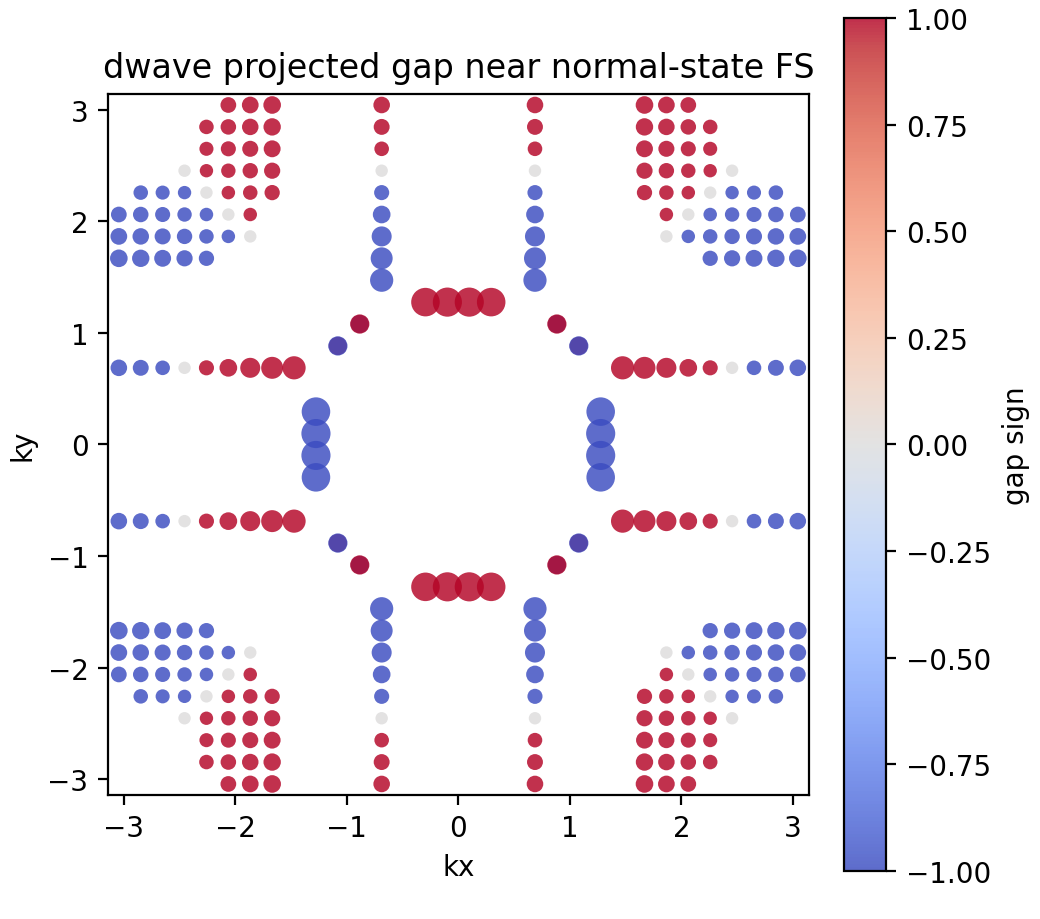
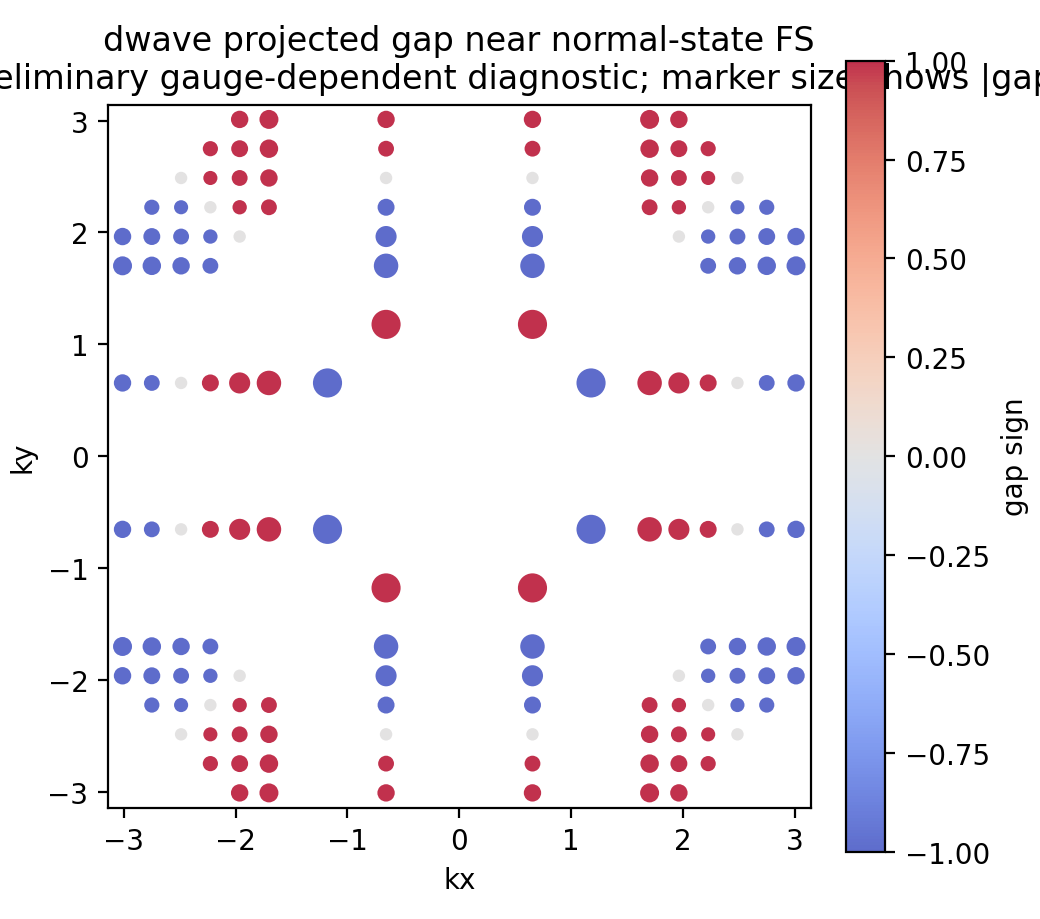
commit

diff --git a/tests/test_gap_analysis.py b/tests/test_gap_analysis.py
@@ -5,6 +5,7 @@ from lno327 import (
     PairingAmplitudes,
     band_gap_projection,
     fermi_surface_points,
+    gap_statistics_by_band,
     gap_statistics_on_fermi_surface,
 )
 
@@ -41,3 +42,34 @@ def test_dwave_form_factor_zero_has_small_projected_gap():
 def test_fermi_surface_points_rejects_nonpositive_energy_tolerance():
     with pytest.raises(ValueError, match="energy_tolerance_eV must be positive"):
         fermi_surface_points(8, 0.0)
+
+
+def test_band_resolved_summary_counts_sum_to_fermi_surface_points():
+    stats = gap_statistics_on_fermi_surface(
+        "spm",
+        PairingAmplitudes(delta0_eV=0.04),
+        nk=12,
+        energy_tolerance_eV=0.15,
+    )
+    summary = gap_statistics_by_band(stats)
+
+    assert sum(item["count"] for item in summary.values()) == stats.gap_abs.size
+
+
+def test_larger_node_tolerance_does_not_reduce_node_count():
+    small_tolerance = gap_statistics_on_fermi_surface(
+        "dwave",
+        PairingAmplitudes(delta0_eV=0.04),
+        nk=12,
+        energy_tolerance_eV=0.15,
+        node_tolerance_eV=1e-4,
+    )
+    large_tolerance = gap_statistics_on_fermi_surface(
+        "dwave",
+        PairingAmplitudes(delta0_eV=0.04),
+        nk=12,
+        energy_tolerance_eV=0.15,
+        node_tolerance_eV=1e-2,
+    )
+
+    assert large_tolerance.approximate_nodes >= small_tolerance.approximate_nodes

diff --git a/src/lno327/gap_analysis.py b/src/lno327/gap_analysis.py
@@ -35,11 +35,13 @@ class GapStatistics:
     gap_complex: np.ndarray
     gap_abs: np.ndarray
     gap_sign: np.ndarray
+    node_tolerance_eV: float
     min_abs_gap: float
     max_abs_gap: float
     mean_abs_gap: float
     sign_changes: bool
     approximate_nodes: int
+    relative_node_fraction: float
 
 
 def band_gap_projection(
@@ -134,6 +136,7 @@ def gap_statistics_on_fermi_surface(
     nonzero_signs = gap_sign[gap_sign != 0]
     sign_changes = bool(np.unique(nonzero_signs).size > 1)
     approximate_nodes = int(np.count_nonzero(gap_abs <= node_tolerance_eV))
+    relative_node_fraction = float(approximate_nodes / gap_abs.size) if gap_abs.size else float("nan")
 
     if gap_abs.size == 0:
         min_abs_gap = max_abs_gap = mean_abs_gap = float("nan")
@@ -150,9 +153,29 @@ def gap_statistics_on_fermi_surface(
         gap_complex=gap_values,
         gap_abs=gap_abs,
         gap_sign=gap_sign,
+        node_tolerance_eV=node_tolerance_eV,
         min_abs_gap=min_abs_gap,
         max_abs_gap=max_abs_gap,
         mean_abs_gap=mean_abs_gap,
         sign_changes=sign_changes,
         approximate_nodes=approximate_nodes,
+        relative_node_fraction=relative_node_fraction,
     )
+
+
+def gap_statistics_by_band(stats: GapStatistics) -> dict[int, dict[str, float | int]]:
+    """Return gap statistics grouped by normal-state band index."""
+
+    summary: dict[int, dict[str, float | int]] = {}
+    for band in np.unique(stats.band_index):
+        mask = stats.band_index == band
+        band_gaps = stats.gap_abs[mask]
+        approximate_nodes = int(np.count_nonzero(band_gaps <= stats.node_tolerance_eV))
+        summary[int(band)] = {
+            "count": int(np.count_nonzero(mask)),
+            "min_abs_gap": float(np.min(band_gaps)) if band_gaps.size else float("nan"),
+            "mean_abs_gap": float(np.mean(band_gaps)) if band_gaps.size else float("nan"),
+            "max_abs_gap": float(np.max(band_gaps)) if band_gaps.size else float("nan"),
+            "approximate_nodes": approximate_nodes,
+        }
+    return summary

diff --git a/scripts/inspect_gap_structure.py b/scripts/inspect_gap_structure.py
@@ -14,7 +14,7 @@ ROOT = Path(__file__).resolve().parents[1]
 sys.path.insert(0, str(ROOT / "src"))
 os.environ.setdefault("MPLCONFIGDIR", "/tmp/matplotlib")
 
-from lno327 import PairingAmplitudes, gap_statistics_on_fermi_surface  # noqa: E402
+from lno327 import PairingAmplitudes, gap_statistics_by_band, gap_statistics_on_fermi_surface  # noqa: E402
 
 
 def default_output_prefix(kind: str) -> Path:
@@ -27,6 +27,7 @@ def main() -> None:
     parser.add_argument("--delta0", type=float, default=0.04, help="Pairing amplitude Delta0 in eV.")
     parser.add_argument("--nk", type=int, default=80)
     parser.add_argument("--energy-window", type=float, default=0.05, help="FS energy window in eV.")
+    parser.add_argument("--node-tolerance", type=float, default=1e-3, help="Approximate node threshold in eV.")
     parser.add_argument("--output-prefix", type=Path, default=None)
     args = parser.parse_args()
 
@@ -38,7 +39,10 @@ def main() -> None:
         PairingAmplitudes(delta0_eV=args.delta0),
         nk=args.nk,
         energy_tolerance_eV=args.energy_window,
+        node_tolerance_eV=args.node_tolerance,
     )
+    band_summary = gap_statistics_by_band(stats)
+    relative_node_mask = stats.gap_abs <= stats.node_tolerance_eV
 
     output_prefix = args.output_prefix or default_output_prefix(args.kind)
     output_prefix.parent.mkdir(parents=True, exist_ok=True)
@@ -52,6 +56,8 @@ def main() -> None:
         gap_complex=stats.gap_complex,
         gap_abs=stats.gap_abs,
         gap_sign=stats.gap_sign,
+        node_tolerance_eV=np.array(stats.node_tolerance_eV),
+        relative_node_mask=relative_node_mask,
     )
 
     figures_dir = ROOT / "outputs" / "figures"
@@ -78,7 +84,10 @@ def main() -> None:
         fig.colorbar(scatter, ax=ax, label="gap sign")
     ax.set_xlabel("kx")
     ax.set_ylabel("ky")
-    ax.set_title(f"{args.kind} projected gap near normal-state FS")
+    ax.set_title(
+        f"{args.kind} projected gap near normal-state FS\n"
+        "sign is preliminary gauge-dependent diagnostic; marker size shows |gap|."
+    )
     ax.set_xlim(-np.pi, np.pi)
     ax.set_ylim(-np.pi, np.pi)
     ax.set_aspect("equal", adjustable="box")
@@ -88,12 +97,15 @@ def main() -> None:
     print(f"kind = {args.kind}")
     print(f"delta0_eV = {args.delta0}")
     print(f"nk = {args.nk} x {args.nk}")
+    print(f"node_tolerance_eV = {stats.node_tolerance_eV}")
     print(f"number_of_fermi_surface_points = {len(stats.kx)}")
     print(f"min_abs_gap = {stats.min_abs_gap}")
     print(f"max_abs_gap = {stats.max_abs_gap}")
     print(f"mean_abs_gap = {stats.mean_abs_gap}")
     print(f"sign_change_detected = {stats.sign_changes}")
     print(f"approximate_node_count = {stats.approximate_nodes}")
+    print(f"relative_node_fraction = {stats.relative_node_fraction}")
+    print(f"band_resolved_summary = {band_summary}")
     print(f"output_npz = {npz_path}")
     print(f"figure = {figure_path}")
 

diff --git a/src/lno327/__init__.py b/src/lno327/__init__.py
@@ -29,6 +29,7 @@ from .gap_analysis import (
     GapStatistics,
     band_gap_projection,
     fermi_surface_points,
+    gap_statistics_by_band,
     gap_statistics_on_fermi_surface,
 )
 from .model import (
@@ -75,6 +76,7 @@ __all__ = [
     "dwave_pairing_matrix",
     "fermi_function",
     "fermi_surface_points",
+    "gap_statistics_by_band",
     "gap_statistics_on_fermi_surface",
     "k_weights",
     "kubo_conductivity_imag_axis",

diff --git a/README.md b/README.md
@@ -54,7 +54,7 @@ python scripts/inspect_pairing_structure.py --kx 0.2 --ky -0.5 --delta0-eV 0.04
 检查 normal-state 费米面附近的投影 gap 结构：
 
 ```bash
-python scripts/inspect_gap_structure.py --kind spm --delta0 0.04 --nk 80 --energy-window 0.05
+python scripts/inspect_gap_structure.py --kind spm --delta0 0.04 --nk 80 --energy-window 0.05 --node-tolerance 0.001
 ```
 
 绘制 normal-state 能带：